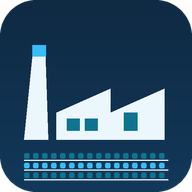
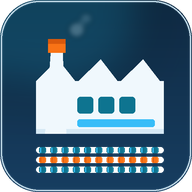
FIX-PWA-10c: آیکون برند جدید جذاب و کامل — سیلوئت کارخانه با سقف دندانهای تمیز (سه دندانه)، دودکش با کلاهک نارنجی ایمنی (#f97316)، سه پنجرهٔ فیروزهای، سه ردیف خطوط آج میلگرد متناوب فیروزهای/نارنجی، گرادیان سرمهای + هالهٔ ظریف فیروزهای و قاب ظریف؛ همهٔ عناصر داخل safe-zone مرکزی (۸۰٪) برای maskable؛ 

diff --git a/web-server/web-server/server.js b/web-server/web-server/server.js
@@ -205,7 +205,8 @@ const server = http.createServer((req, res) => {
     // ===== S1 AUTH: public auth routes (login page + /api/auth/*) =====
     if (auth.handlePublic(req, res, pathname)) return;
     // ===== FEAT-PWA-8b (begin): داراییهای عمومی PWA بدون احراز هویت — فقط مانیفست/سرویسورکر/آیکون برند (بدون هیچ دادهٔ حساس) =====
-    if (req.method === 'GET' && (pathname === '/manifest.webmanifest' || pathname === '/sw.js' || pathname === '/icon-192.png' || pathname === '/icon-512.png')) {
+    /* ===== FIX-PWA-10c: favicon هم به لیست عمومی PWA افزوده شد ===== */
+    if (req.method === 'GET' && (pathname === '/manifest.webmanifest' || pathname === '/sw.js' || pathname === '/icon-192.png' || pathname === '/icon-512.png' || pathname === '/favicon.ico')) {
         const rel2 = pathname === '/manifest.webmanifest' ? 'manifest.webmanifest' : pathname.slice(1);
         const fp2 = path.join(PUBLIC_DIR, rel2);
         const h2 = { 'Cache-Control': 'no-cache' };

diff --git a/web-server/web-server/public/sw.js b/web-server/web-server/public/sw.js
@@ -3,7 +3,7 @@
    + زنجیرهٔ fallback سالم (کش → شل → صفحهٔ آفلاین inline)؛ هرگز صفحهٔ سفید؛
    manifest/آیکونها cache-first نسخهدار؛ دادهٔ حساس (/api/*) هرگز کش نمیشود ===== */
 'use strict';
-var SHELL_CACHE = 'sanatify-shell-v10b1';
+var SHELL_CACHE = 'sanatify-shell-v10c1'; /* FIX-PWA-10c: آیکونهای جدید */
 var SHELL_ASSETS = [
     '/manifest.webmanifest',
     '/icon-192.png',

diff --git a/web-server/web-server/public/index.html b/web-server/web-server/public/index.html
@@ -11,6 +11,7 @@
     <!-- ===== FEAT-PWA-8b (begin): PWA SANATIFY ===== -->
     <link rel="manifest" href="/manifest.webmanifest" />
     <meta name="theme-color" content="#0f2a43" />
+    <link rel="icon" href="/favicon.ico" sizes="any" />
     <link rel="icon" type="image/png" href="/icon-192.png" />
     <link rel="apple-touch-icon" href="/icon-192.png" />
     <meta name="mobile-web-app-capable" content="yes" />
